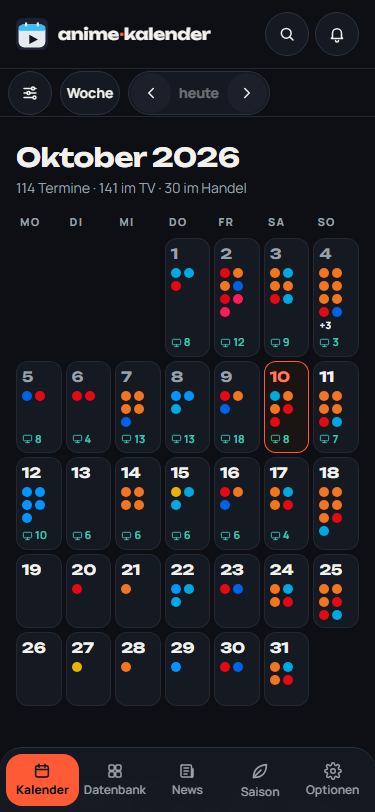
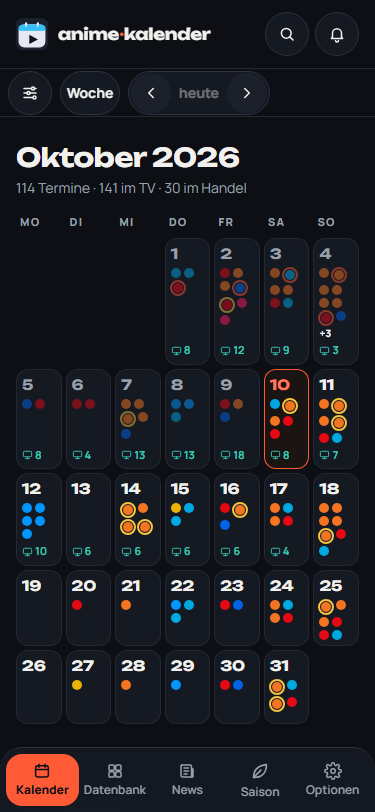
Monat am Handy: Kontrastrand im hellen Thema, Ring für Staffelstart/-finale, Tage-Dimmer auch für Punkte, Patch-Notes-Eintrag

diff --git a/web/src/components/MonthView.tsx b/web/src/components/MonthView.tsx
@@ -1,4 +1,4 @@
-import { useMemo } from 'react'
+import { useMemo, type CSSProperties } from 'react'
 import type { ReleaseEvent } from '@shared/types.ts'
 import { PLATFORMS } from '@shared/types.ts'
 import type { Dataset } from '../lib/data.ts'
@@ -143,11 +143,11 @@ function ZelleHandy({ tag, stream, tv, p, heute, t }: ZellProps) {
     <button
       type="button"
       onClick={stream.length + tv.length ? undefined : () => p.onPickDay(tag.date)}
-      aria-label={stream.length + tv.length ? punkteLabel(stream, tv.length, datum, t) : t('kal.tagOeffnen', { datum })}
+      aria-label={stream.length + tv.length ? punkteLabel(stream, tv.length, datum, p.data, t) : t('kal.tagOeffnen', { datum })}
       className="flex size-full min-h-[74px] cursor-pointer flex-col items-start gap-1 p-1.5 text-left"
     >
       <TagesZahl tag={tag} heute={heute} />
-      <PunkteReihe stream={stream} />
+      <PunkteReihe stream={stream} data={p.data} />
       {tv.length > 0 && (
         <span className="mt-auto flex items-center gap-0.5 text-[11px] font-bold text-ak-tv">
           <FernsehZeichen groesse={11} />
@@ -165,22 +165,26 @@ function ZelleHandy({ tag, stream, tv, p, heute, t }: ZellProps) {
 }
 
 /** Am Handy ein Punkt je Streaming-Termin in der Anbieterfarbe statt 22 px großer Cover (kein Bild geladen); die Titel nennt der Knopf per aria-label und die Tagesliste. */
-function PunkteReihe({ stream }: { stream: ReleaseEvent[] }) {
+function PunkteReihe({ stream, data }: { stream: ReleaseEvent[]; data: Dataset }) {
   const zeigen = stream.length > PUNKTE_MAX ? stream.slice(0, PUNKTE_MAX - 1) : stream
   const mehr = stream.length - zeigen.length
   return (
     <span className="flex flex-wrap content-start gap-[3px]" aria-hidden="true">
       {zeigen.map((ev) => (
-        <span key={ev.id} data-monatspunkt className="block size-2.5 rounded-full" style={{ background: PLATFORMS[ev.platform]?.color }} />
+        <span key={ev.id} data-monatspunkt data-art={art(ev, data)} className="ak-punkt block size-2.5 rounded-full" style={{ '--punkt': PLATFORMS[ev.platform]?.color } as CSSProperties} />
       ))}
       {mehr > 0 && <span className="text-[10px] leading-[10px] font-extrabold text-ak-text">+{mehr}</span>}
     </span>
   )
 }
 
-/** Farbe trägt nie allein: Der Knopf nennt Titel und Anbieter der ersten Termine. */
-function punkteLabel(stream: ReleaseEvent[], tvZahl: number, datum: string, t: ReturnType<typeof useLang>['t']): string {
-  const titel = stream.slice(0, LABEL_TITEL).map((ev) => `${ev.name} (${ev.platform === 'tv' ? (ev.sender ?? PLATFORMS.tv.name) : PLATFORMS[ev.platform].name})`)
+/** Farbe und Ring tragen nie allein: Der Knopf nennt Titel, Anbieter und Staffelstart/-finale der ersten Termine. */
+function punkteLabel(stream: ReleaseEvent[], tvZahl: number, datum: string, data: Dataset, t: ReturnType<typeof useLang>['t']): string {
+  const titel = stream.slice(0, LABEL_TITEL).map((ev) => {
+    const a = art(ev, data)
+    const anbieter = ev.platform === 'tv' ? (ev.sender ?? PLATFORMS.tv.name) : PLATFORMS[ev.platform].name
+    return `${ev.name} (${a ? `${anbieter}, ${t(a === 'start' ? 'kal.start' : 'kal.finale')}` : anbieter})`
+  })
   const rest = stream.length - titel.length
   const teile = [...titel, ...(rest > 0 ? [t('kal.undWeitere', { n: rest })] : []), ...(tvZahl ? [t('kal.imTvZahl', { n: tvZahl })] : [])]
   return t('kal.tagMitTiteln', { datum, titel: teile.join(', ') })

diff --git a/web/src/styles.css b/web/src/styles.css
@@ -259,13 +259,35 @@ html.dark select option {
   Farbflächen; Text wechselt auf die leise Farbe, die in beiden Themen den Kontrast hält.
 */
 .ak-vorbei img,
+.ak-vorbei .ak-punkt,
 .ak-vorbei .ak-dimmen {
   opacity: 0.5;
   transition: opacity 0.15s;
 }
 .ak-vorbei:hover img,
+.ak-vorbei:hover .ak-punkt,
 .ak-vorbei:hover .ak-dimmen {
   opacity: 1;
+}
+
+/*
+  Monatspunkt am Handy (10.10.2026): Anbieterfarbe aus `--punkt`. Im hellen Thema erreichen Crunchyroll, Prime, WOW, ADN
+  und Kino gegen Weiß keine 3:1; der Rand aus 60 % Anbieterfarbe und 40 % Schwarz liegt bei allen Anbietern über 4,4:1.
+  Staffelstart/-finale: Ring mit 1 px Abstand (statt des früheren Rings ums Cover); der Außenrand hält die Nachbarn frei.
+*/
+.ak-punkt {
+  background: var(--punkt);
+}
+html:not(.dark) .ak-punkt {
+  border: 1px solid color-mix(in srgb, var(--punkt) 60%, black);
+}
+.ak-punkt[data-art] {
+  margin: 2px;
+  outline: 2px solid var(--ak-akzent);
+  outline-offset: 1px;
+}
+.ak-punkt[data-art='finale'] {
+  outline-color: var(--ak-finale-text);
 }
 .ak-vorbei .ak-titel {
   color: var(--ak-leise);
